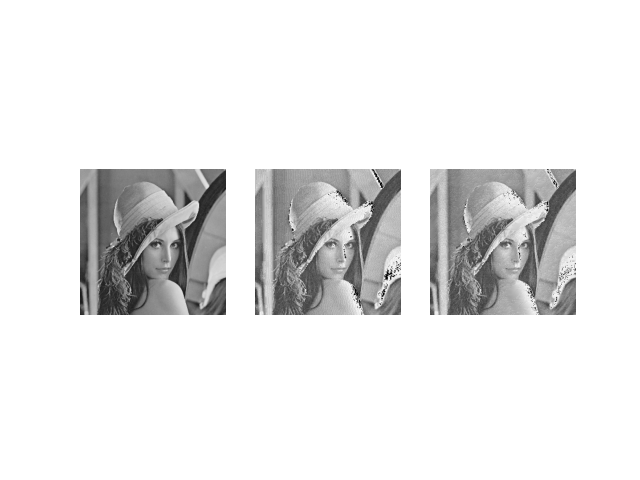
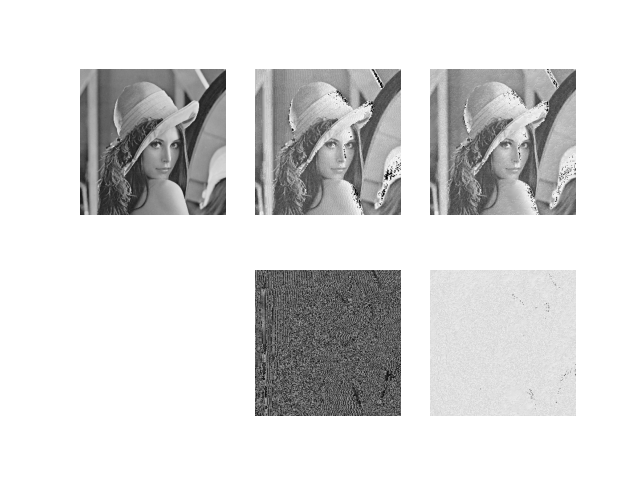
add hw4

diff --git a/hw_0425/hw2.py b/hw_0425/hw2.py
@@ -8,39 +8,74 @@ def quant(e, _min=-255, _max=255, level=2**4):
   step = (_max - _min) / level
   qvals = np.linspace(_min, _max, level)
 
-  # TODO
   if (e + step / 2) < qvals[0]: return qvals[0]
   for qval in qvals:
     if (e + step / 2) < qval: return qval
   return qvals[-1]
 
-def dpcm(img, wa, wb, wc):
+def dpcm_enc(img, wa, wb, wc):
   pred_img = np.zeros_like(img)
+  quant_error = np.zeros_like(img)
 
   for ridx in range(img.shape[0]):
     for cidx in range(img.shape[1]):
-      a = pred_img[ridx][cidx-1] if cidx > 0 else 0
-      b = pred_img[ridx-1][cidx] if ridx > 0 else 0
-      c = pred_img[ridx-1][cidx+1] if (ridx > 0 and cidx < (img.shape[1]-1)) else 0
+      have_a = (cidx > 0)
+      have_b = (ridx > 0)
+      have_c = (ridx > 0 and cidx < (img.shape[1]-1))
+
+      a = pred_img[ridx][cidx-1] if have_a else 0
+      b = pred_img[ridx-1][cidx] if have_b else 0
+      c = pred_img[ridx-1][cidx+1] if have_c else 0
 
       pred = wa * a + wb * b + wc * c
-      quant_err = quant(img[ridx][cidx] - pred)
-      pred_img[ridx][cidx] = pred + quant_err # TODO
+      qerr = quant(img[ridx][cidx] - pred)
+      quant_error[ridx][cidx] = qerr
+      pred_img[ridx][cidx] = pred + qerr
+
+  return quant_error
+
+def dpcm_dec(quant_error, wa, wb, wc):
+  pred_img = np.zeros_like(quant_error)
+
+  for ridx in range(quant_error.shape[0]):
+    for cidx in range(quant_error.shape[1]):
+      have_a = (cidx > 0)
+      have_b = (ridx > 0)
+      have_c = (ridx > 0 and cidx < (quant_error.shape[1]-1))
+
+      a = pred_img[ridx][cidx-1] if have_a else 0
+      b = pred_img[ridx-1][cidx] if have_b else 0
+      c = pred_img[ridx-1][cidx+1] if have_c else 0
+
+      pred = wa * a + wb * b + wc * c
+      pred_img[ridx][cidx] = pred + quant_error[ridx][cidx]
 
   return pred_img
 
 fig = plt.figure()
 
-ax = fig.add_subplot(1, 3, 1)
+ax = fig.add_subplot(2, 3, 1)
 ax.set_axis_off()
 ax.imshow(img, cmap='gray')
 
-ax = fig.add_subplot(1, 3, 2)
+ax = fig.add_subplot(2, 3, 2)
 ax.set_axis_off()
-ax.imshow(dpcm(img, 0.97, 0., 0.), cmap='gray')
+dpcm_qerr = dpcm_enc(img, 0.97, 0., 0.)
+dpcm_img = dpcm_dec(dpcm_qerr, 0.97, 0., 0.)
+ax.imshow(dpcm_img, cmap='gray')
 
-ax = fig.add_subplot(1, 3, 3)
+ax = fig.add_subplot(2, 3, 5)
 ax.set_axis_off()
-ax.imshow(dpcm(img, 0.75, -0.5, 0.75), cmap='gray')
+ax.imshow(-(dpcm_img - img), cmap='gray')
+
+ax = fig.add_subplot(2, 3, 3)
+ax.set_axis_off()
+dpcm_qerr2 = dpcm_enc(img, 0.75, -0.5, 0.75)
+dpcm_img2 = dpcm_dec(dpcm_qerr2, 0.75, -0.5, 0.75)
+ax.imshow(dpcm_img2, cmap='gray')
+
+ax = fig.add_subplot(2, 3, 6)
+ax.set_axis_off()
+ax.imshow(-(dpcm_img2 - img), cmap='gray')
 
 plt.savefig('dpcm.png')

diff --git a/hw_0425/hw4.py b/hw_0425/hw4.py
@@ -1,0 +1,23 @@
+import numpy as np
+import imageio as iio
+import matplotlib.pyplot as plt
+
+from huffman import *
+from collections import Counter
+
+def get_freq(e):
+  freq = dict(Counter([str(k) for k in e.flatten()]))
+  freq = sorted(freq.items(), key=lambda x: x[1], reverse=True)
+  return freq
+
+seq = np.array([6,2,1,4,2,1,2,3,5,2,12,6,3,6,7,11,6,8,10,11,7,13,14,6,6,14,9,13])
+freq = get_freq(seq)
+freq_dict = dict(freq)
+code = huffman_code_tree(make_tree(freq))
+
+bl = []
+for k in range(1,15):
+  k = str(k)
+  print("{}:{} {} {}/{}".format(k,code[k], len(code[k]), freq_dict[k],sum([e[1] for e in freq])))
+  bl.append(len(code[k])*(freq_dict[k]/sum([e[1] for e in freq])))
+print(sum(bl))
